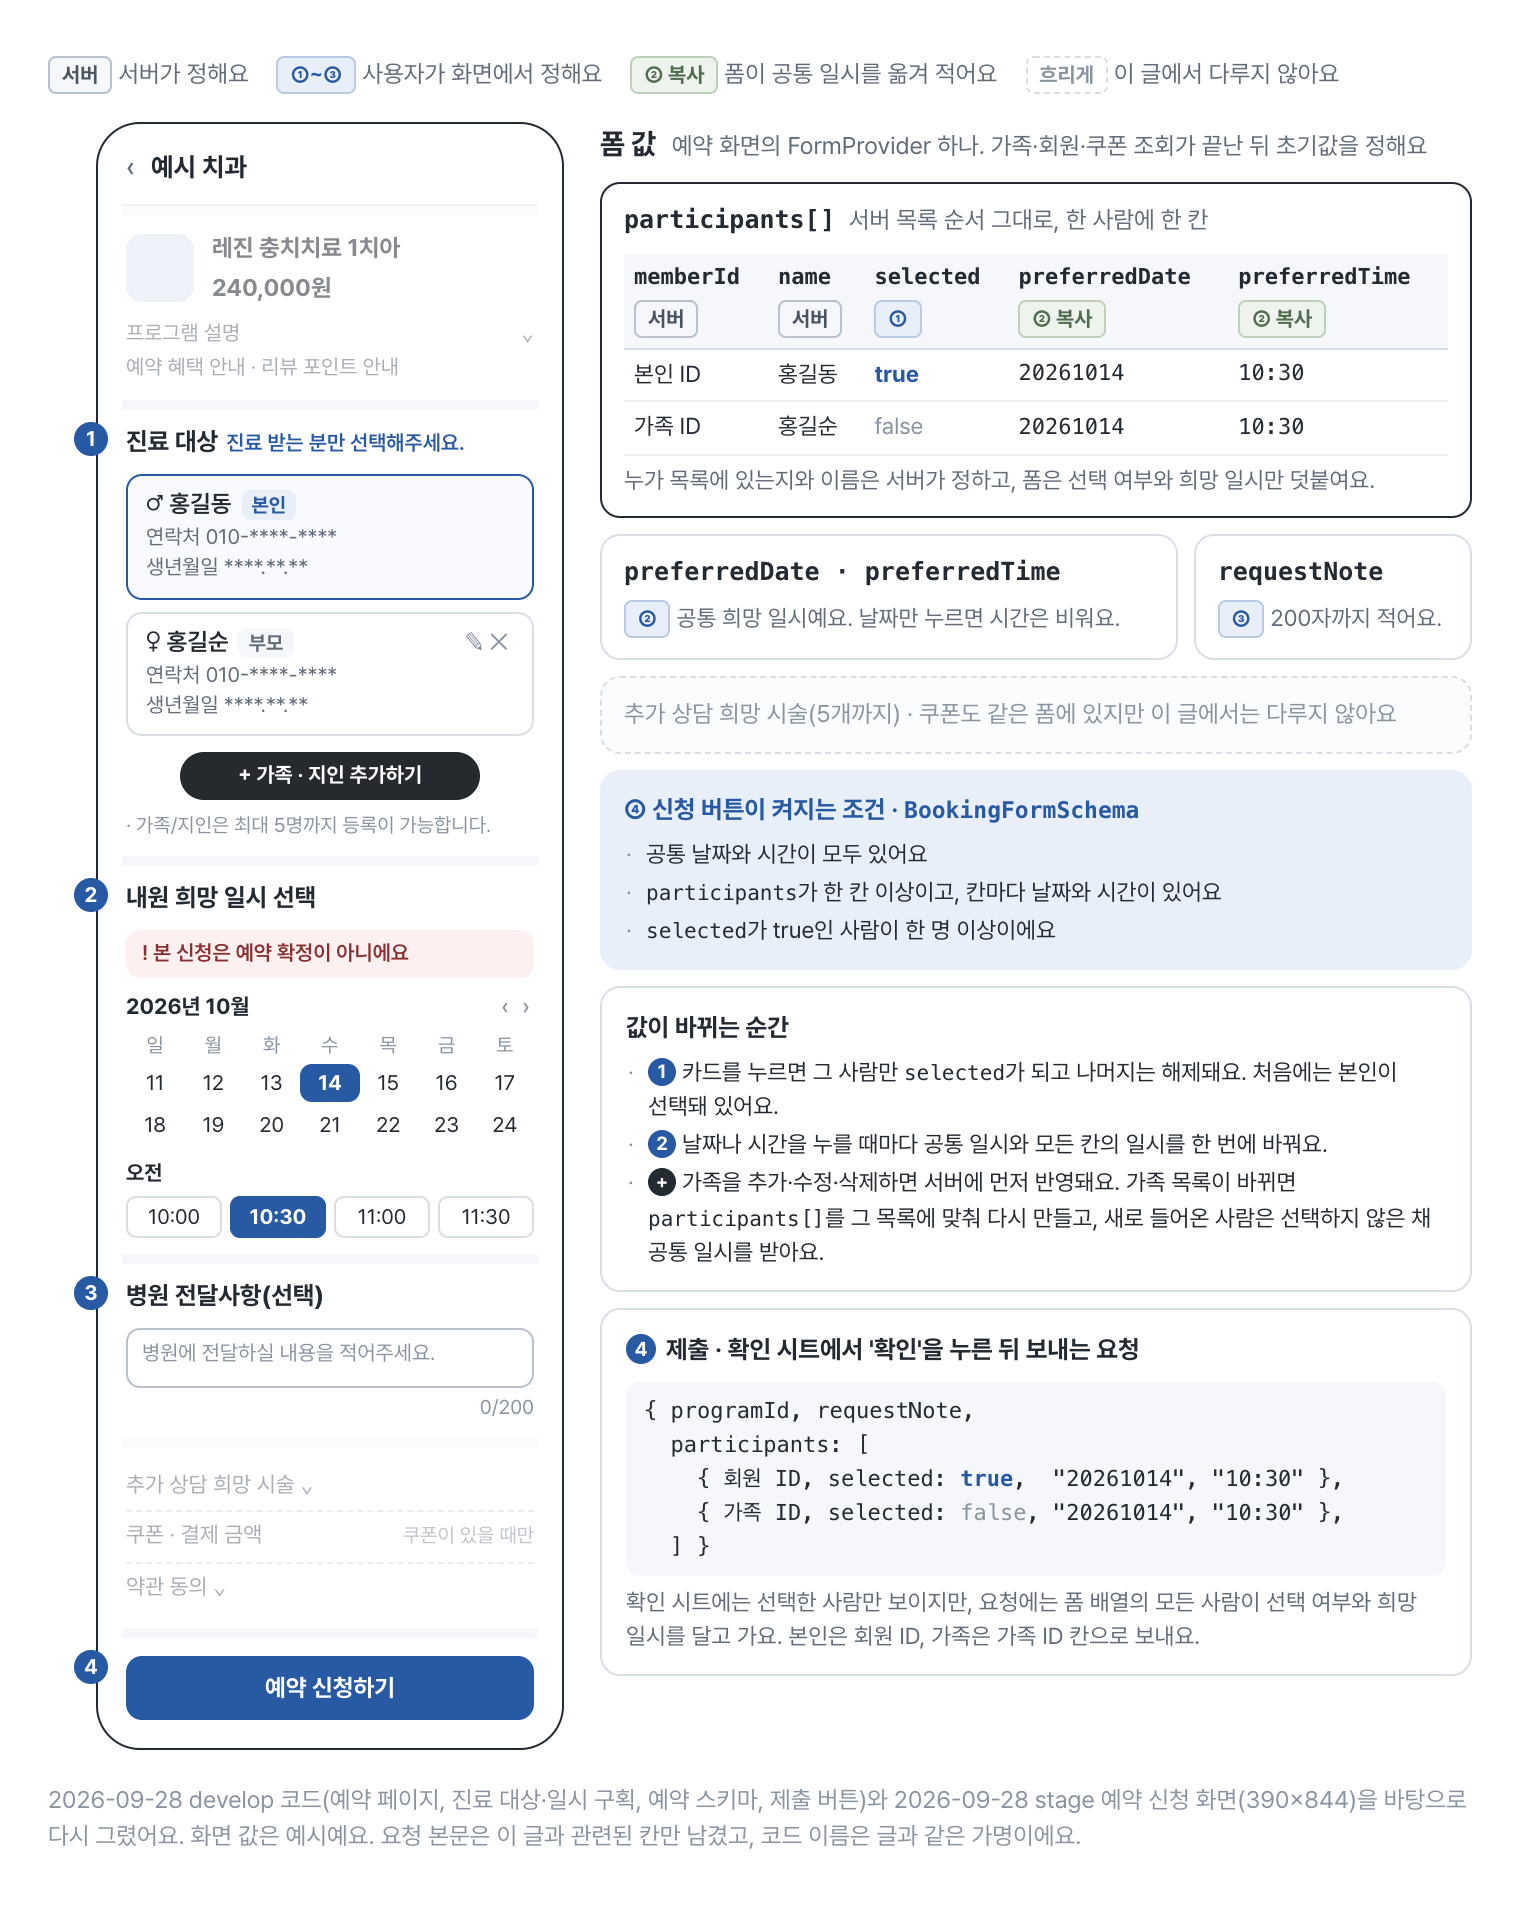
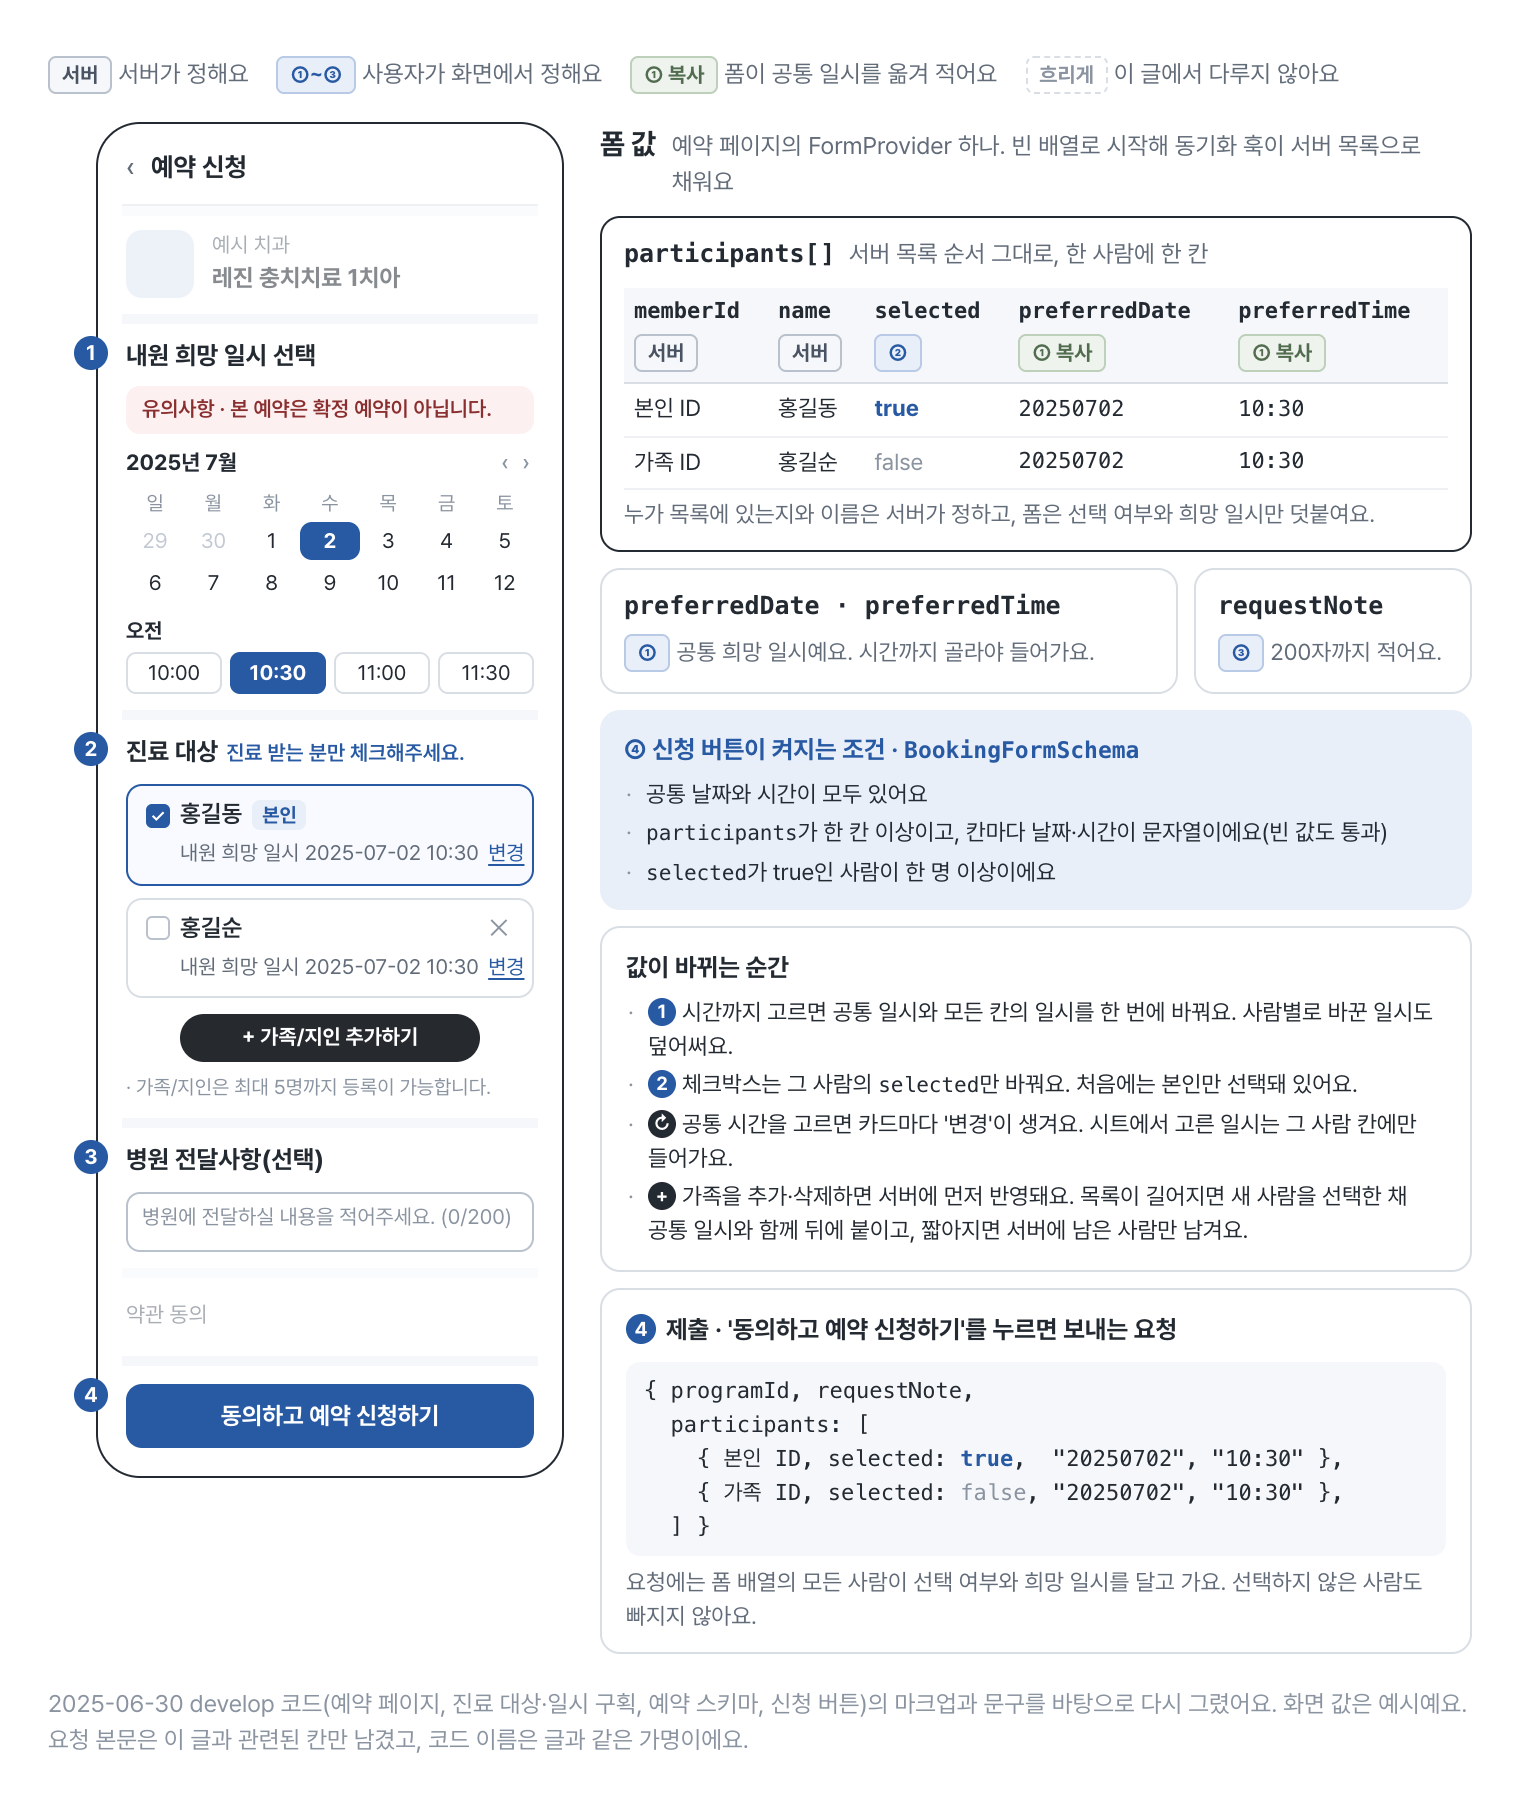
docs(blog): 예약 폼 화면 해부도를 2025-06-30 develop 마크업으로 다시 그린다

diff --git a/blog/assets/figures/reservation-form/src/01-form-anatomy.html b/blog/assets/figures/reservation-form/src/01-form-anatomy.html
@@ -21,7 +21,7 @@
   .prog { display: flex; gap: 9px; align-items: center; }
   .thumb { width: 34px; height: 34px; border-radius: 8px; background: #dfe7f3; flex: none; }
   .prog b { display: block; font-size: 12px; }
-  .prog span { font-size: 12px; font-weight: 700; }
+  .prog .hn { display: block; font-style: normal; font-size: 10.5px; color: var(--sub); }
   .grayline { font-size: 10.5px; color: var(--sub); margin-top: 5px; display: flex; justify-content: space-between; }
   .grayline + .grayline { margin-top: 2px; }
 
@@ -59,7 +59,7 @@
 
   /* 폼 값 패널 */
   .pn-head { display: flex; align-items: baseline; gap: 8px; margin-bottom: 8px; }
-  .pn-head b { font-size: 14.5px; letter-spacing: -0.2px; }
+  .pn-head b { font-size: 14.5px; letter-spacing: -0.2px; white-space: nowrap; flex: none; }
   .pn-head span { font-size: 12px; color: var(--sub); }
   .box { border: 1px solid var(--line); border-radius: 10px; padding: 9px 11px 10px; background: #fff; margin-bottom: 8px; }
   .box.main { border: 1.5px solid var(--ink); }
@@ -99,13 +99,18 @@
   .send pre .t { color: var(--blue); font-weight: 700; }
   .send pre .f { color: var(--faint); }
   .send p { font-size: 11.5px; color: var(--sub); margin-top: 5px; line-height: 1.45; }
+  .pcard .cb { display: inline-block; width: 12px; height: 12px; border-radius: 3px; border: 1.2px solid var(--line-strong); font-size: 9px; line-height: 10px; text-align: center; color: #fff; flex: none; }
+  .pcard .cb.on { background: var(--blue); border-color: var(--blue); }
+  .pcard .dt { margin-top: 3px; padding-left: 17px; white-space: nowrap; }
+  .pcard .dt u { color: var(--blue); text-underline-offset: 2px; margin-left: 2px; }
+  .cal-g .d.prev { color: var(--disabled); }
 </style></head>
 <body>
 
 <div class="legend">
   <span><span class="src server">서버</span> 서버가 정해요</span>
   <span><span class="src user">①~③</span> 사용자가 화면에서 정해요</span>
-  <span><span class="src copy">② 복사</span> 폼이 공통 일시를 옮겨 적어요</span>
+  <span><span class="src copy">① 복사</span> 폼이 공통 일시를 옮겨 적어요</span>
   <span><span class="src off">흐리게</span> 이 글에서 다루지 않아요</span>
 </div>
 
@@ -113,39 +118,22 @@
   <!-- 왼쪽: 예약 신청 화면 -->
   <div style="padding-left:24px">
     <div class="phone">
-      <div class="ph-head"><i>‹</i>예시 치과</div>
+      <div class="ph-head"><i>‹</i>예약 신청</div>
 
       <div class="ph-block ph-dim">
-        <div class="prog"><div class="thumb"></div><div><b>레진 충치치료 1치아</b><span>240,000원</span></div></div>
-        <div class="grayline"><span>프로그램 설명</span><span>⌄</span></div>
-        <div class="grayline"><span>예약 혜택 안내 · 리뷰 포인트 안내</span></div>
+        <div class="prog"><div class="thumb"></div><div><em class="hn">예시 치과</em><b>레진 충치치료 1치아</b></div></div>
       </div>
 
       <div class="ph-block">
         <span class="badge">1</span>
-        <div class="sec-t">진료 대상<small>진료 받는 분만 선택해주세요.</small></div>
-        <div class="pcard sel">
-          <div class="nm">♂ 홍길동 <span class="lb">본인</span></div>
-          연락처 010-****-****<br>생년월일 ****.**.**
-        </div>
-        <div class="pcard">
-          <div class="nm">♀ 홍길순 <span class="lb rel">부모</span><span class="ic">✎✕</span></div>
-          연락처 010-****-****<br>생년월일 ****.**.**
-        </div>
-        <span class="pill">+ 가족 · 지인 추가하기</span>
-        <div class="tiny">· 가족/지인은 최대 5명까지 등록이 가능합니다.</div>
-      </div>
-
-      <div class="ph-block">
-        <span class="badge">2</span>
         <div class="sec-t">내원 희망 일시 선택</div>
-        <div class="callout">! 본 신청은 예약 확정이 아니에요</div>
+        <div class="callout">유의사항 · 본 예약은 확정 예약이 아닙니다.</div>
         <div class="cal">
-          <div class="cal-h">2026년 10월<span>‹ ›</span></div>
+          <div class="cal-h">2025년 7월<span>‹ ›</span></div>
           <div class="cal-g">
             <span class="w">일</span><span class="w">월</span><span class="w">화</span><span class="w">수</span><span class="w">목</span><span class="w">금</span><span class="w">토</span>
-            <span class="d">11</span><span class="d">12</span><span class="d">13</span><span class="d on">14</span><span class="d">15</span><span class="d">16</span><span class="d">17</span>
-            <span class="d">18</span><span class="d">19</span><span class="d">20</span><span class="d">21</span><span class="d">22</span><span class="d">23</span><span class="d">24</span>
+            <span class="d prev">29</span><span class="d prev">30</span><span class="d">1</span><span class="d on">2</span><span class="d">3</span><span class="d">4</span><span class="d">5</span>
+            <span class="d">6</span><span class="d">7</span><span class="d">8</span><span class="d">9</span><span class="d">10</span><span class="d">11</span><span class="d">12</span>
           </div>
         </div>
         <div class="slots-t">오전</div>
@@ -153,28 +141,40 @@
       </div>
 
       <div class="ph-block">
+        <span class="badge">2</span>
+        <div class="sec-t">진료 대상<small>진료 받는 분만 체크해주세요.</small></div>
+        <div class="pcard sel">
+          <div class="nm"><span class="cb on">✓</span>홍길동 <span class="lb">본인</span></div>
+          <div class="dt">내원 희망 일시 2025-07-02 10:30 <u>변경</u></div>
+        </div>
+        <div class="pcard">
+          <div class="nm"><span class="cb"></span>홍길순<span class="ic">✕</span></div>
+          <div class="dt">내원 희망 일시 2025-07-02 10:30 <u>변경</u></div>
+        </div>
+        <span class="pill">+ 가족/지인 추가하기</span>
+        <div class="tiny">· 가족/지인은 최대 5명까지 등록이 가능합니다.</div>
+      </div>
+
+      <div class="ph-block">
         <span class="badge">3</span>
         <div class="sec-t">병원 전달사항(선택)</div>
-        <div class="ta">병원에 전달하실 내용을 적어주세요.</div>
-        <div class="count">0/200</div>
+        <div class="ta">병원에 전달하실 내용을 적어주세요. (0/200)</div>
       </div>
 
       <div class="ph-block ph-dim">
-        <div class="dimrow"><span>추가 상담 희망 시술 ⌄</span></div>
-        <div class="dimrow"><span>쿠폰 · 결제 금액</span><em>쿠폰이 있을 때만</em></div>
-        <div class="dimrow"><span>약관 동의 ⌄</span></div>
+        <div class="dimrow"><span>약관 동의</span></div>
       </div>
 
       <div class="ph-block" style="padding-bottom:0">
         <span class="badge">4</span>
-        <div class="submit">예약 신청하기</div>
+        <div class="submit">동의하고 예약 신청하기</div>
       </div>
     </div>
   </div>
 
   <!-- 오른쪽: 폼 값 -->
   <div>
-    <div class="pn-head"><b>폼 값</b><span>예약 화면의 FormProvider 하나. 가족·회원·쿠폰 조회가 끝난 뒤 초기값을 정해요</span></div>
+    <div class="pn-head"><b>폼 값</b><span>예약 페이지의 FormProvider 하나. 빈 배열로 시작해 동기화 훅이 서버 목록으로 채워요</span></div>
 
     <div class="box main">
       <div class="box-h"><code>participants[]</code><span class="d">서버 목록 순서 그대로, 한 사람에 한 칸</span></div>
@@ -182,12 +182,12 @@
         <tr>
           <th><code>memberId</code><span class="src server">서버</span></th>
           <th><code>name</code><span class="src server">서버</span></th>
-          <th><code>selected</code><span class="src user">①</span></th>
-          <th><code>preferredDate</code><span class="src copy">② 복사</span></th>
-          <th><code>preferredTime</code><span class="src copy">② 복사</span></th>
+          <th><code>selected</code><span class="src user">②</span></th>
+          <th><code>preferredDate</code><span class="src copy">① 복사</span></th>
+          <th><code>preferredTime</code><span class="src copy">① 복사</span></th>
         </tr>
-        <tr><td>본인 ID</td><td>홍길동</td><td><span class="yes">true</span></td><td class="mono">20261014</td><td class="mono">10:30</td></tr>
-        <tr><td>가족 ID</td><td>홍길순</td><td><span class="no">false</span></td><td class="mono">20261014</td><td class="mono">10:30</td></tr>
+        <tr><td>본인 ID</td><td>홍길동</td><td><span class="yes">true</span></td><td class="mono">20250702</td><td class="mono">10:30</td></tr>
+        <tr><td>가족 ID</td><td>홍길순</td><td><span class="no">false</span></td><td class="mono">20250702</td><td class="mono">10:30</td></tr>
       </table>
       <p class="tnote">누가 목록에 있는지와 이름은 서버가 정하고, 폼은 선택 여부와 희망 일시만 덧붙여요.</p>
     </div>
@@ -195,7 +195,7 @@
     <div class="pair2">
       <div class="box">
         <div class="box-h"><code>preferredDate · preferredTime</code></div>
-        <p><span class="src user">②</span> 공통 희망 일시예요. 날짜만 누르면 시간은 비워요.</p>
+        <p><span class="src user">①</span> 공통 희망 일시예요. 시간까지 골라야 들어가요.</p>
       </div>
       <div class="box">
         <div class="box-h"><code>requestNote</code></div>
@@ -203,15 +203,11 @@
       </div>
     </div>
 
-    <div class="box off">
-      <div class="box-h"><span class="d">추가 상담 희망 시술(5개까지) · 쿠폰도 같은 폼에 있지만 이 글에서는 다루지 않아요</span></div>
-    </div>
-
     <div class="rules">
       <b>④ 신청 버튼이 켜지는 조건 · <code>BookingFormSchema</code></b>
       <ul>
         <li>공통 날짜와 시간이 모두 있어요</li>
-        <li><code>participants</code>가 한 칸 이상이고, 칸마다 날짜와 시간이 있어요</li>
+        <li><code>participants</code>가 한 칸 이상이고, 칸마다 날짜·시간이 문자열이에요(빈 값도 통과)</li>
         <li><code>selected</code>가 true인 사람이 한 명 이상이에요</li>
       </ul>
     </div>
@@ -219,23 +215,24 @@
     <div class="flows">
       <b>값이 바뀌는 순간</b>
       <ul>
-        <li><span class="n">1</span>카드를 누르면 그 사람만 <code>selected</code>가 되고 나머지는 해제돼요. 처음에는 본인이 선택돼 있어요.</li>
-        <li><span class="n">2</span>날짜나 시간을 누를 때마다 공통 일시와 모든 칸의 일시를 한 번에 바꿔요.</li>
-        <li><span class="n plus">+</span>가족을 추가·수정·삭제하면 서버에 먼저 반영돼요. 가족 목록이 바뀌면 <code>participants[]</code>를 그 목록에 맞춰 다시 만들고, 새로 들어온 사람은 선택하지 않은 채 공통 일시를 받아요.</li>
+        <li><span class="n">1</span>시간까지 고르면 공통 일시와 모든 칸의 일시를 한 번에 바꿔요. 사람별로 바꾼 일시도 덮어써요.</li>
+        <li><span class="n">2</span>체크박스는 그 사람의 <code>selected</code>만 바꿔요. 처음에는 본인만 선택돼 있어요.</li>
+        <li><span class="n plus">↻</span>공통 시간을 고르면 카드마다 '변경'이 생겨요. 시트에서 고른 일시는 그 사람 칸에만 들어가요.</li>
+        <li><span class="n plus">+</span>가족을 추가·삭제하면 서버에 먼저 반영돼요. 목록이 길어지면 새 사람을 선택한 채 공통 일시와 함께 뒤에 붙이고, 짧아지면 서버에 남은 사람만 남겨요.</li>
       </ul>
     </div>
 
     <div class="send">
-      <b><span class="n4">4</span>제출 · 확인 시트에서 '확인'을 누른 뒤 보내는 요청</b>
+      <b><span class="n4">4</span>제출 · '동의하고 예약 신청하기'를 누르면 보내는 요청</b>
 <pre>{ programId, requestNote,
   participants: [
-    { 회원 ID, selected: <span class="t">true</span>,  "20261014", "10:30" },
-    { 가족 ID, selected: <span class="f">false</span>, "20261014", "10:30" },
+    { 본인 ID, selected: <span class="t">true</span>,  "20250702", "10:30" },
+    { 가족 ID, selected: <span class="f">false</span>, "20250702", "10:30" },
   ] }</pre>
-      <p>확인 시트에는 선택한 사람만 보이지만, 요청에는 폼 배열의 모든 사람이 선택 여부와 희망 일시를 달고 가요. 본인은 회원 ID, 가족은 가족 ID 칸으로 보내요.</p>
+      <p>요청에는 폼 배열의 모든 사람이 선택 여부와 희망 일시를 달고 가요. 선택하지 않은 사람도 빠지지 않아요.</p>
     </div>
   </div>
 </div>
 
-<p class="foot">2026-09-28 develop 코드(예약 페이지, 진료 대상·일시 구획, 예약 스키마, 제출 버튼)와 2026-09-28 stage 예약 신청 화면(390×844)을 바탕으로 다시 그렸어요. 화면 값은 예시예요. 요청 본문은 이 글과 관련된 칸만 남겼고, 코드 이름은 글과 같은 가명이에요.</p>
+<p class="foot">2025-06-30 develop 코드(예약 페이지, 진료 대상·일시 구획, 예약 스키마, 신청 버튼)의 마크업과 문구를 바탕으로 다시 그렸어요. 화면 값은 예시예요. 요청 본문은 이 글과 관련된 칸만 남겼고, 코드 이름은 글과 같은 가명이에요.</p>
 </body></html>
